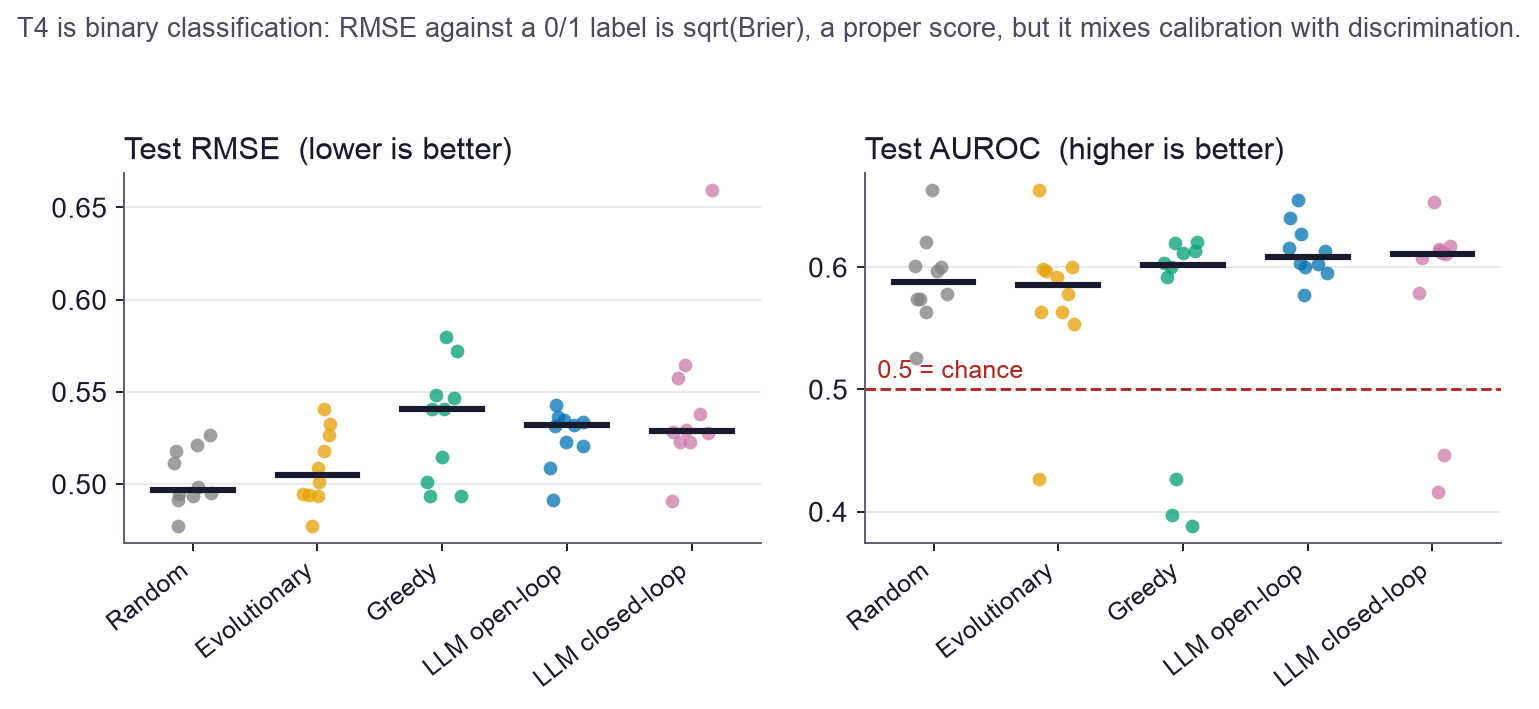
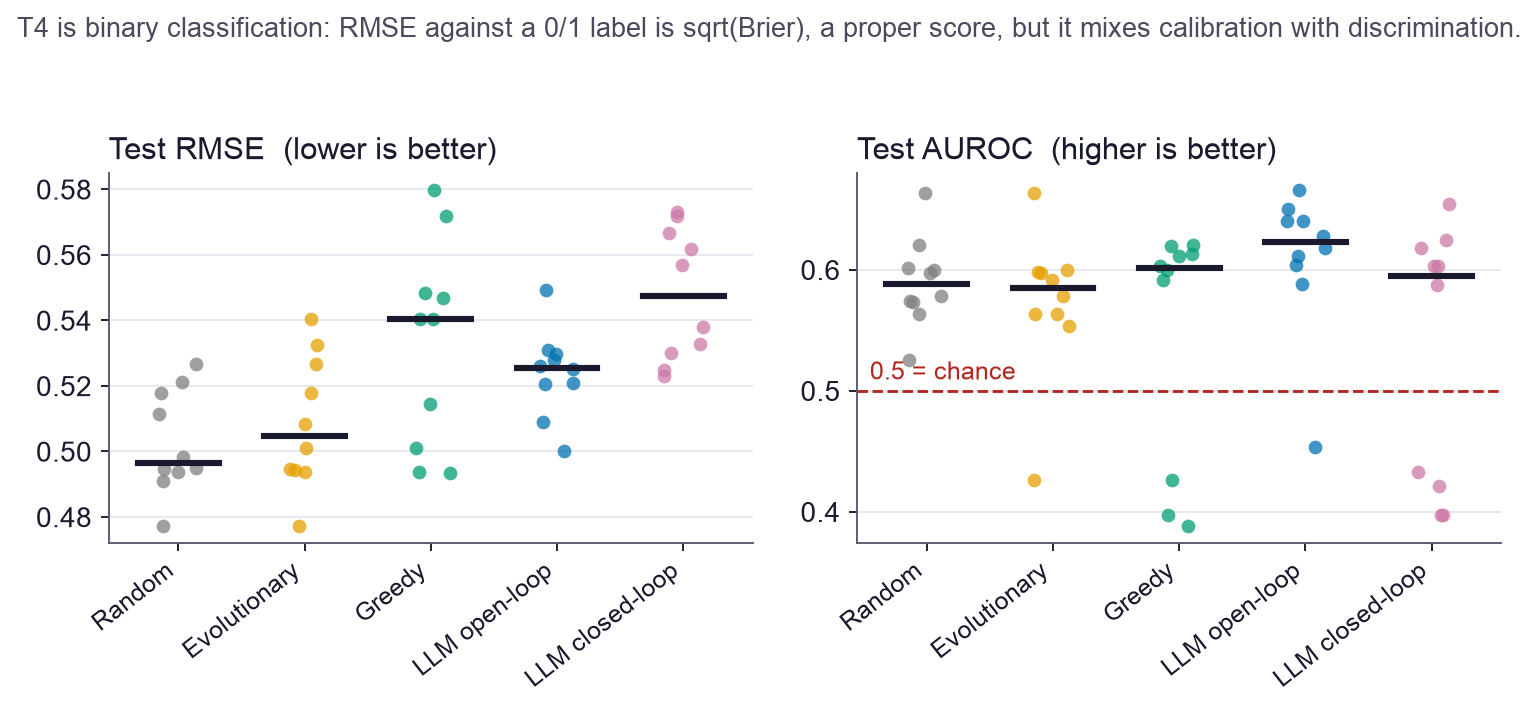
Re-run mini_5gate_v1 with the duplicate fix: 200 cells, 2.9 minutes
Every arm now gets its full budget. Closed-loop duplicates fell from 74%
to 16% and no cell is short of its eight candidates, against eleven
before, so the arms can finally be compared on equal footing. The run
also got faster, 5.1 min to 2.9 min, because the wasted calls are gone.

Median test RMSE over ten seeds, lower better:

  task                Random   Evol   Greedy  LLM open  LLM closed
  T1 Gaussian peak    0.139   0.152   0.148     0.170      0.181
  T2 Sinusoid freq    0.295   0.273   0.271     0.204      0.213
  T3 Change point     0.184   0.205   0.274     0.257      0.369
  T4 One vs two peaks 0.497   0.505   0.540     0.526      0.548

The headline is negative and stays that way now that the defect is gone:
plain random search has the best median on three of four tasks. The LLM
arms win on T2 alone, and there they win clearly (0.204 vs 0.295).

Closed-loop never beats open-loop on any task. Eight rounds of
validation-only feedback did not help this model at this budget, which is
worth stating plainly rather than filing under "needs more seeds".

T4 remains the case where the metric picks the winner: by RMSE random
leads (0.497 vs 0.526), by AUROC open-loop leads (0.623 vs 0.588). Both
numbers are reported because either one alone asserts a different answer.

Per-cell numbers are exported to the deck package as data/per_cell.csv,
since outputs/ is gitignored.

diff --git a/scripts/mini5/make_figures.py b/scripts/mini5/make_figures.py
@@ -27,6 +27,10 @@ import numpy as np  # noqa: E402
 REPO = Path(__file__).resolve().parents[2]
 RESULTS = REPO / "outputs" / "mini5" / "results.json"
 FIG = REPO / "docs" / "presentation" / "mini5" / "figures"
+#: outputs/ is gitignored (durable stores stay out of the repo), so the
+#: numbers behind every figure are exported here, inside the deck package,
+#: where a reader can check them without the store.
+DATA = REPO / "docs" / "presentation" / "mini5" / "data"
 
 # Okabe-Ito derived, colourblind safe. One colour per method, everywhere.
 COLOR = {
@@ -218,6 +222,36 @@ def summary(doc: dict) -> None:
         print(row)
 
 
+def export_data(doc: dict) -> None:
+    """One row per cell: what the figures are drawn from."""
+    import csv
+
+    DATA.mkdir(parents=True, exist_ok=True)
+    fields = ["family", "n_qubits", "arm", "seed", "status", "n_evaluated",
+              "selected_val_rmse", "test_rmse", "test_auroc", "stop_reason",
+              "selected_gate_count", "api_calls", "proposals", "duplicates",
+              "invalid"]
+    with (DATA / "per_cell.csv").open("w", newline="") as fh:
+        writer = csv.DictWriter(fh, fieldnames=fields)
+        writer.writeheader()
+        for cell in doc["cells"]:
+            tel = cell.get("telemetry", {})
+            writer.writerow({
+                **{k: cell.get(k) for k in fields if k in cell},
+                "api_calls": tel.get("api_calls"),
+                "proposals": tel.get("proposals"),
+                "duplicates": tel.get("duplicates"),
+                "invalid": tel.get("invalid"),
+            })
+    meta = {k: doc[k] for k in
+            ("space_version", "exact_gates", "budget_unique", "seeds", "tasks",
+             "arms", "wall_clock_seconds") if k in doc}
+    meta["spend"] = doc.get("spend")
+    (DATA / "run_metadata.json").write_text(json.dumps(meta, indent=2) + "\n")
+    print(f"  wrote data/per_cell.csv ({len(doc['cells'])} rows) and "
+          "data/run_metadata.json")
+
+
 def main() -> int:
     doc = load()
     print(f"mini5: {len(doc['cells'])} cells, "
@@ -225,6 +259,7 @@ def main() -> int:
     fig_main(doc)
     fig_t4_check(doc)
     fig_anytime(doc)
+    export_data(doc)
     summary(doc)
     return 0
 
